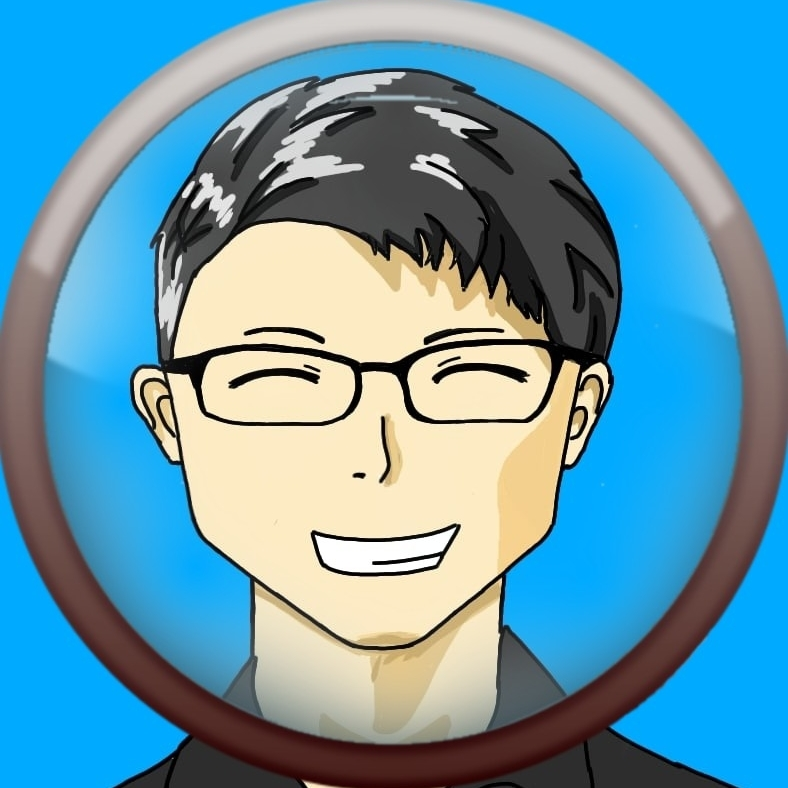
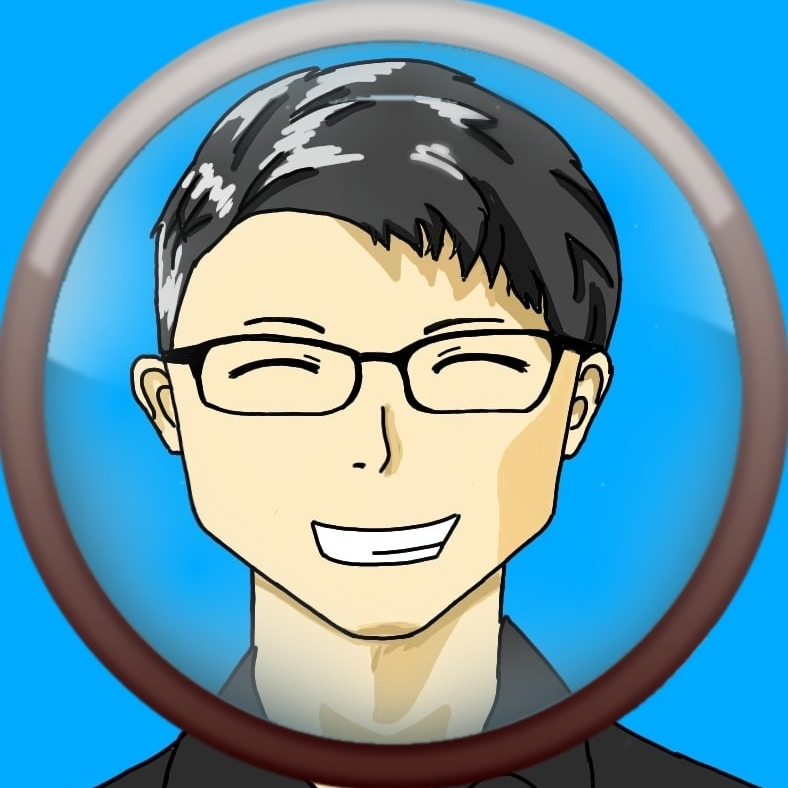
feat: add blog profile image as well as fix other images

diff --git a/components/layout.js b/components/layout.js
@@ -103,7 +103,7 @@ export default function Layout({ children, home, project, experience, blog, abou
                                 <Link href="/">
                                     <a>
                                         <img
-                                            src="/images/newsletter-profile.jpg"
+                                            src="/images/blog-profile.jpg"
                                             className={`${styles.headerImage} ${utilStyles.borderCircle}`}
                                             alt={name}
                                         />
